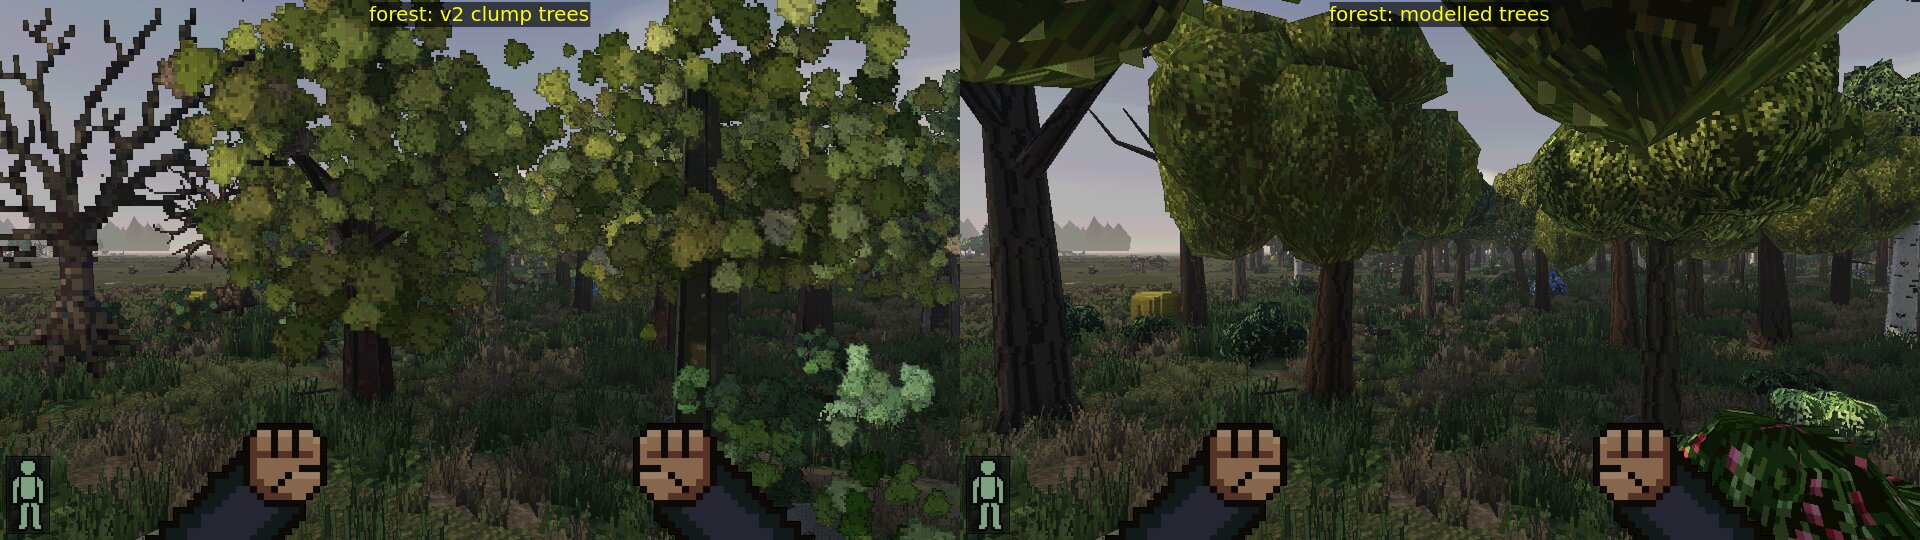
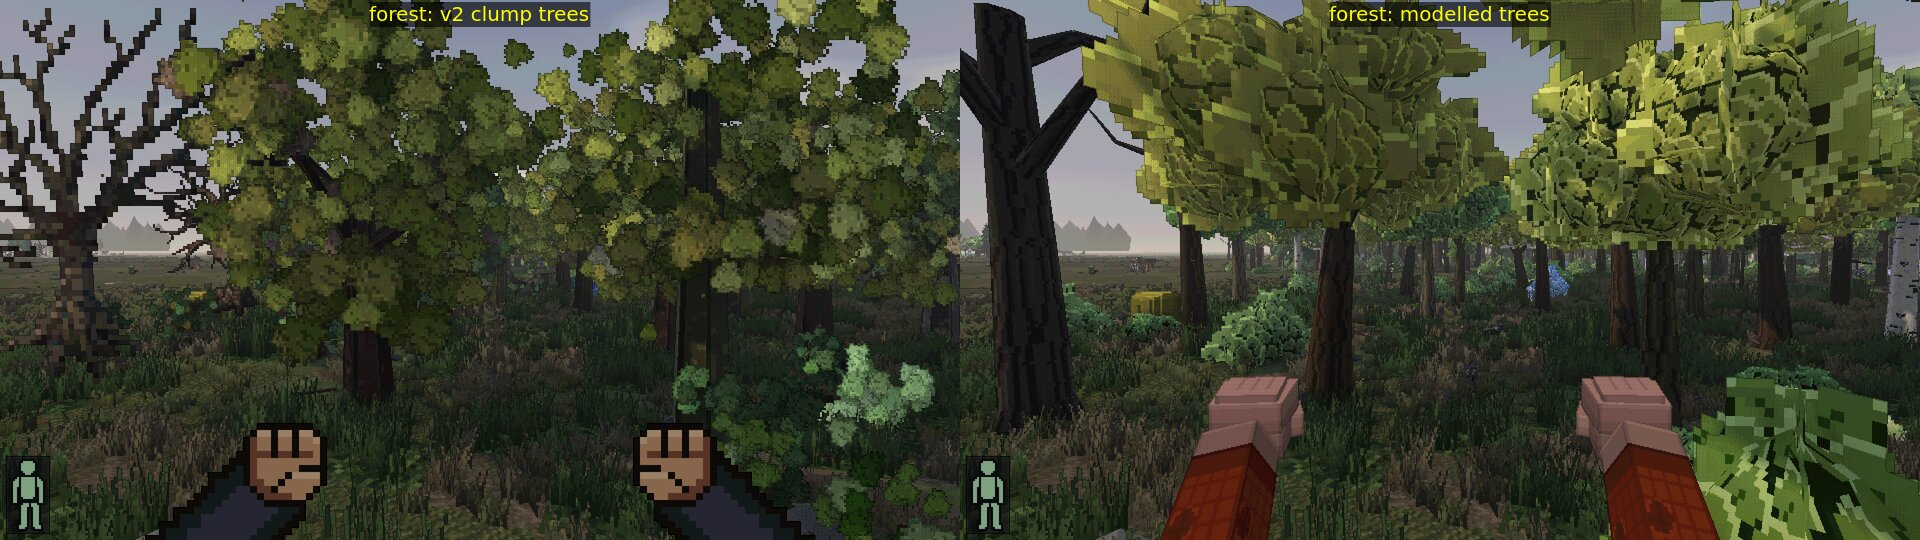
Flora round 4: smooth crown normals + baked occlusion and per-lump tint, bigger outward leaf-edge cards and underside cards, scalloped 4-step leaf texture, sprite-lit colour with leaf glow, big floret clusters on bushes, near-eye fade, stepped wind (foliage material)

diff --git a/src/render/flora.ts b/src/render/flora.ts
@@ -2,11 +2,12 @@ import * as THREE from 'three';
 import { Rng, hashString } from '../core/rng';
 import { LEVEL_HEIGHT } from '../world/coords';
 import type { RGB } from './colors';
-import { FloraAtlas, paintBark, paintFringe, paintLeaves, paintNeedles, paintSnow, paintTwigs, type BarkKind, type Ramp4 } from './floraArt';
+import { FloraAtlas, type LeafDots, paintBark, paintFringe, paintLeaves, paintNeedles, paintSnow, paintTwigs, type BarkKind, type Ramp4 } from './floraArt';
 import { framePixels, frameKey } from './framePixels';
 import { GeomBuilder, type V3 } from './geometry';
 import type { GroundField } from './ground';
-import { worldMaterials } from './materials';
+import { shared, worldMaterials } from './materials';
+import { leafGlow, leafSun } from './trees';
 import { Img } from './pixelArt';
 import type { TileFrame } from './textureSource';
 import type { TreeSpec } from './trees';
@@ -98,7 +99,7 @@ export interface Species {
   /** height multiplier on the mesher's tree height */
   scale: number;
   /** pixel dots in the leaf texture by season (flowers, blossom, fruit, berries) */
-  dots?: (season: string) => { cols: RGB[]; n: number; size: 1 | 2 } | undefined;
+  dots?: (season: string) => LeafDots | undefined;
 }
 
 const FRUIT: Record<string, RGB> = {
@@ -131,7 +132,9 @@ export function speciesOf(id: string | undefined, shrub: boolean): Species {
         if (season === 'winter') return undefined;
         if (kind === 'flower' && season === 'autumn') return undefined;
         if (kind === 'berry' && season === 'spring') return { cols: [[240, 240, 232]], n: 10, size: 1 };
-        return { cols, n: kind === 'flower' ? 22 : 16, size: 2 };
+        // a few big floret clusters / berry pairs on a clean green base (dozens of 2-px dots
+        // read as confetti)
+        return kind === 'flower' ? { cols, n: 5, size: 3 } : { cols, n: 9, size: 2 };
       } : undefined,
     };
   }
@@ -144,9 +147,9 @@ export function speciesOf(id: string | undefined, shrub: boolean): Species {
     return {
       family: 'fruit', bark: 'smooth', scale: 0.8,
       dots: (season) => {
-        if (season === 'spring') return { cols: BLOSSOM_PINK.test(s) ? [[240, 178, 200], [250, 214, 226]] : [[246, 242, 236], [230, 226, 222]], n: 30, size: 2 };
+        if (season === 'spring') return { cols: BLOSSOM_PINK.test(s) ? [[240, 178, 200], [250, 214, 226]] : [[246, 242, 236], [230, 226, 222]], n: 9, size: 3 };
         if (harvested || !fruitKey || season === 'winter') return undefined;
-        return { cols: [FRUIT[fruitKey]], n: season === 'summer' ? 12 : 18, size: 2 };
+        return { cols: [FRUIT[fruitKey]], n: season === 'summer' ? 6 : 9, size: 2 };
       },
     };
   }
@@ -237,8 +240,9 @@ function makeLayout(family: Family, variant: number, bare: boolean): Layout {
       const top = trunk(0.42, 0.05, 0.05);
       crownOf([0, 0.66, 0], [0.4, 0.24, 0.4], 9, [0.34, 0.44], 0.8);
       for (const l of L.lumps.slice(1)) if (l.c[1] < 0.7) {
-        l.c = [l.c[0] * 1.12, l.c[1] - 0.1, l.c[2] * 1.12];
-        l.r = [l.r[0] * 0.8, l.r[1] * 2.1, l.r[2] * 0.8];
+        // (tongues hanging below ~2.5 m put the walker's head inside the crown)
+        l.c = [l.c[0] * 1.12, l.c[1] - 0.05, l.c[2] * 1.12];
+        l.r = [l.r[0] * 0.8, l.r[1] * 1.6, l.r[2] * 0.8];
       }
       if (bare) bareCrown(top, 0.05, 0.1);
       else for (let i = 1; i < L.lumps.length; i += 2) limb(top, L.lumps[i].c, 0.022);
@@ -362,7 +366,7 @@ export function paletteOf(f: TileFrame): Palette | null {
     const ramp: Ramp4 = leaf.length > 8
       // brightened: the sprite's colours are drawn with its own shading baked in, while the
       // model gets real (toon) shading on top; unbrightened, crowns read dark olive
-      ? [darken(at(leaf, 0.15), 0.85), brighten(at(leaf, 0.42), 1.15), brighten(at(leaf, 0.74), 1.22), brighten(at(leaf, 0.96), 1.3)]
+      ? [darken(at(leaf, 0.2), 0.85), brighten(at(leaf, 0.45), 1.12), brighten(at(leaf, 0.75), 1.2), brighten(at(leaf, 0.96), 1.3)]
       : [[26, 40, 20], [52, 78, 34], [78, 108, 46], [118, 146, 64]];
     const barkC: RGB = bark.length ? at(bark, 0.5) : [70, 52, 38];
     const q = (c: RGB) => c.map((v) => Math.round(v / 20)).join('.');
@@ -395,7 +399,8 @@ function quadOut(g: GeomBuilder, a: V3, b: V3, c: V3, d: V3, ns: V3[], uv: numbe
   const fn: V3 = [f1[1] * f2[2] - f1[2] * f2[1], f1[2] * f2[0] - f1[0] * f2[2], f1[0] * f2[1] - f1[1] * f2[0]];
   const avg = [ns[0][0] + ns[1][0] + ns[2][0] + ns[3][0], ns[0][1] + ns[1][1] + ns[2][1] + ns[3][1], ns[0][2] + ns[1][2] + ns[2][2] + ns[3][2]];
   if (fn[0] * avg[0] + fn[1] * avg[1] + fn[2] * avg[2] >= 0) g.quadEx(a, b, c, d, ns, uv, f, col);
-  else g.quadEx(b, a, d, c, [ns[1], ns[0], ns[3], ns[2]], [uv[2], uv[1], uv[0], uv[3]], f, col);
+  else g.quadEx(b, a, d, c, [ns[1], ns[0], ns[3], ns[2]], [uv[2], uv[1], uv[0], uv[3]], f,
+    col.length === 12 ? [...col.slice(3, 6), ...col.slice(0, 3), ...col.slice(9, 12), ...col.slice(6, 9)] : col);
 }
 
 /** A tapered tube through `pts` (world metres) with radial normals; bark tiles at 1 m. */
@@ -428,23 +433,38 @@ function tube(g: GeomBuilder, f: TileFrame, pts: V3[], radii: number[], sides: n
  *  normal, so the crown shades as one mass (lit top, dark underside) with lumps in it. */
 function lump(g: GeomBuilder, f: TileFrame, c: V3, r: V3, crown: V3, seg: number, rings: number, seed: number): void {
   const rng = new Rng(seed);
+  // each lump a slightly different value and hue (a younger/older leaf mass), like the v2
+  // clumps coloured from different sprite pixels: one flat tint read as a plastic ball
+  const tv = 0.86 + rng.next() * 0.24, th = (rng.next() - 0.5) * 0.12;
+  const tint: V3 = [tv * (1 + th), tv, tv * (1 - th)];
   const wob: number[] = [];
-  for (let i = 0; i < seg * (rings + 1); i++) wob.push(1 + (rng.next() - 0.5) * 0.34);
+  for (let i = 0; i < seg * (rings + 1); i++) wob.push(1 + (rng.next() - 0.5) * 0.26);
   const circ = Math.max(1, Math.round(2 * Math.PI * r[0]));
-  const P = (i: number, k: number): [V3, V3, number, number] => {
+  // which way this lump faces out of the crown: its inner and lower sides are occluded
+  const out = norm([c[0] - crown[0] + 1e-4, (c[1] - crown[1]) * 0.6, c[2] - crown[2]]);
+  const P = (i: number, k: number): [V3, V3, number, number, number] => {
     const th = (i / seg) * Math.PI * 2, ph = -Math.PI / 2 + (k / rings) * Math.PI;
     const w = k === 0 || k === rings ? 1 : wob[(i % seg) * (rings + 1) + k];
     const d: V3 = [Math.cos(th) * Math.cos(ph), Math.sin(ph), Math.sin(th) * Math.cos(ph)];
     const p: V3 = [c[0] + d[0] * r[0] * w, c[1] + d[1] * r[1] * w, c[2] + d[2] * r[2] * w];
     const vn = norm([p[0] - crown[0], (p[1] - crown[1]) * 1.2, p[2] - crown[2]]);
-    const n = norm([d[0] * 0.6 + vn[0] * 0.4, d[1] * 0.6 + vn[1] * 0.4, d[2] * 0.6 + vn[2] * 0.4]);
-    return [p, n, (i / seg) * circ, p[1]];
+    // mostly the crown's sphere normal (smooth, one mass, no facets), a little of the lump's
+    // own so lumps still read
+    const n = norm([d[0] * 0.28 + vn[0] * 0.72, d[1] * 0.28 + vn[1] * 0.72, d[2] * 0.28 + vn[2] * 0.72]);
+    // baked occlusion as vertex colour: faces toward the crown's inside and underneath are
+    // darker, so neighbouring lumps separate by value (the v2 clumps' dark gaps) while the
+    // lighting stays smooth
+    const facing = 0.5 + 0.5 * (d[0] * out[0] + d[1] * out[1] + d[2] * out[2]);
+    const up = 0.5 + 0.5 * d[1];
+    const occ = 0.5 + 0.5 * Math.min(1, facing * 0.65 + up * 0.55);
+    return [p, n, (i / seg) * circ, p[1], occ];
   };
   for (let k = 0; k < rings; k++)
     for (let i = 0; i < seg; i++) {
       const a = P(i, k), b = P(i + 1, k), cc = P(i + 1, k + 1), d = P(i, k + 1);
       // winding: outward-facing (i grows counter-clockwise seen from above)
-      quadOut(g, a[0], b[0], cc[0], d[0], [a[1], b[1], cc[1], d[1]], [a[2], a[3], b[2], d[3]], f, WHITE);
+      quadOut(g, a[0], b[0], cc[0], d[0], [a[1], b[1], cc[1], d[1]], [a[2], a[3], b[2], d[3]], f,
+        [a, b, cc, d].flatMap((q) => [q[4] * tint[0], q[4] * tint[1], q[4] * tint[2]]));
     }
 }
 
@@ -568,7 +588,8 @@ function paintImpostor(L: Layout, axis: 0 | 1, pal: Palette, leafTex: Img, barkT
 /** Build one chunk's modelled trees/bushes (one mesh on the flora page), a tree per step. */
 export function* buildFloraSteps(specs: TreeSpec[], ground: GroundField | null): Generator<void, THREE.Object3D[]> {
   const A = floraAtlas();
-  const g = new GeomBuilder();
+  const g = new GeomBuilder(); // trunks, limbs, impostors: plain world material
+  const fg = new GeomBuilder(); // leaves, needles, cards, snow: foliage material (sway, near fade)
   let first = true;
   for (const s of specs) {
     if (!first) yield;
@@ -622,34 +643,100 @@ export function* buildFloraSteps(specs: TreeSpec[], ground: GroundField | null):
     const snow = season === 'winter' && conifer ? A.frame('snow', true, () => paintSnow(5)) : undefined;
     for (let i = 0; i < L.cones.length; i++) {
       const c = L.cones[i];
-      cone(g, leafF, X([0, 0, 0]), gy + c.y0 * H, gy + c.y1 * H, c.r * H, near ? 12 : 8, s.seed + i, snow);
+      cone(fg, leafF, X([0, 0, 0]), gy + c.y0 * H, gy + c.y1 * H, c.r * H, near ? 12 : 8, s.seed + i, snow);
     }
     const fringeF = near && L.lumps.length ? A.frame(`fringe|${pal.key}|${dk}`, false, () => paintFringe(pal.leaf, 7, dots)) : null;
     for (let i = 0; i < L.lumps.length; i++) {
       const l = L.lumps[i];
       const c = X(l.c);
       const r: V3 = [l.r[0] * H, l.r[1] * H, l.r[2] * H];
-      lump(g, leafF, c, r, crownW, near ? 9 : 6, near ? 5 : 3, s.seed + i * 17);
-      // ragged leaf-mass cards through the lump: only their rim shows outside it
-      if (fringeF) cards(g, fringeF, c, r[0] * 1.32, r[1] * 1.32, crownW, yaw + i, 3);
+      lump(fg, leafF, c, r, crownW, near ? 9 : 6, near ? 5 : 3, s.seed + i * 17);
+      if (fringeF) {
+        // ragged leaf-mass cards through the lump: only their rim shows outside it, and it
+        // hides the lump's polygon outline; lumps on the crown's lower half also get a flat
+        // card under them, where the underside silhouette is seen from below
+        // pushed a little outward from the crown centre so the ragged rim covers the outline
+        const o = norm([c[0] - crownW[0], (c[1] - crownW[1]) * 0.5, c[2] - crownW[2]]);
+        cards(fg, fringeF, [c[0] + o[0] * r[0] * 0.3, c[1] + o[1] * r[1] * 0.3, c[2] + o[2] * r[2] * 0.3], r[0] * 1.6, r[1] * 1.6, crownW, yaw + i, 3);
+        if (l.c[1] <= L.crown[1] + 0.02) hcard(fg, fringeF, [c[0], c[1] - r[1] * 0.45, c[2]], r[0] * 1.35, crownW, yaw + i);
+      }
     }
     if (L.twigs.length) {
       const twigF = A.frame(`twig|${barkBase.map((v) => Math.round(v / 10)).join('.')}`, false, () => paintTwigs(barkBase, 9));
       for (const t of L.twigs) {
         const c = X(t.c);
-        if (near || lod === 1) cards(g, twigF, [c[0], c[1] + t.r[1] * H * 0.3, c[2]], t.r[0] * H, t.r[1] * H, crownW, yaw, near ? 3 : 2);
+        if (near || lod === 1) cards(fg, twigF, [c[0], c[1] + t.r[1] * H * 0.3, c[2]], t.r[0] * H, t.r[1] * H, crownW, yaw, near ? 3 : 2);
       }
     }
   }
-  if (!g.vertexCount) return [];
+  const out: THREE.Object3D[] = [];
   const { mat, depth } = worldMaterials(A.texture);
-  const m = new THREE.Mesh(g.build(), mat);
-  m.customDepthMaterial = depth;
-  m.castShadow = true;
-  m.receiveShadow = true;
-  m.matrixAutoUpdate = false;
-  m.userData.flora = true;
-  return [m];
+  for (const [b, material] of [[g, mat], [fg, foliageMaterial(A.texture)]] as const) {
+    if (!b.vertexCount) continue;
+    const m = new THREE.Mesh(b.build(), material);
+    m.customDepthMaterial = depth;
+    m.castShadow = true;
+    m.receiveShadow = true;
+    m.matrixAutoUpdate = false;
+    m.userData.flora = true;
+    out.push(m);
+  }
+  return out;
+}
+
+// --- foliage material --------------------------------------------------------------------
+// The world material plus three things only leaves want:
+//  * near fade: within ~2 m of the eye leaves dissolve (screen-door on the pixel grid),
+//    so walking into a crown or bush doesn't fill the screen with giant texels
+//  * stepped wind: a small sway advanced in 4 keyframes per second (pixel-art animation
+//    timing, and a still frame between steps doesn't shimmer), gone past ~25 m
+//  * light through leaves: the v2 clumps' glow (undersides never go muddy) and backlit
+//    translucency when looking toward the sun
+let foliageMat: THREE.MeshLambertMaterial | null = null;
+/** Sway amplitude in metres (0 = off); cdda.floraTweak can change it. */
+export const floraWind = { value: 0.05 };
+
+function foliageMaterial(tex: THREE.Texture): THREE.MeshLambertMaterial {
+  if (foliageMat) return foliageMat;
+  const base = worldMaterials(tex).mat;
+  const m = new THREE.MeshLambertMaterial({ map: tex, vertexColors: true, alphaTest: 0.5, side: THREE.FrontSide });
+  m.onBeforeCompile = (sh, r) => {
+    base.onBeforeCompile(sh, r);
+    Object.assign(sh.uniforms, { uTime: shared.uTime, uSway: floraWind, uLeafGlow: leafGlow, uSunW: leafSun.dir, uSunC: leafSun.color });
+    const anchor = 'vSkyVis = skyVis;';
+    if (!sh.vertexShader.includes(anchor)) throw new Error('flora: world vertex anchor missing');
+    sh.vertexShader = 'uniform float uTime;\nuniform float uSway;\nuniform vec3 uSunW;\nvarying float vFolDist;\nvarying float vFolTrans;\n' + sh.vertexShader.replace(anchor, `${anchor}
+{
+  vec3 fw = (modelMatrix * vec4(transformed, 1.0)).xyz;
+  vFolDist = length(fw - cameraPosition);
+  vFolTrans = pow(max(dot(normalize(fw - cameraPosition), uSunW), 0.0), 3.0);
+  float st = floor(uTime * 4.0) * 0.25;
+  float ph = fw.x * 0.31 + fw.z * 0.23 + fw.y * 0.4;
+  vec2 sw = vec2(sin(st * 1.7 + ph), cos(st * 1.3 + ph * 1.3)) * uSway * (1.0 - smoothstep(12.0, 25.0, vFolDist));
+  transformed.xz += sw;
+}`);
+    sh.fragmentShader = 'uniform float uLeafGlow;\nuniform vec3 uSunC;\nvarying float vFolDist;\nvarying float vFolTrans;\n' + sh.fragmentShader
+      .replace('#include <alphatest_fragment>', `#include <alphatest_fragment>
+if (vFolDist < 2.0) {
+  ivec2 bi = ivec2(mod(gl_FragCoord.xy, 4.0));
+  int bm[16] = int[16](0, 8, 2, 10, 12, 4, 14, 6, 3, 11, 1, 9, 15, 7, 13, 5);
+  if ((float(bm[bi.x + bi.y * 4]) + 0.5) / 16.0 >= smoothstep(0.9, 2.0, vFolDist)) discard;
+}`)
+      .replace('#include <emissivemap_fragment>', '#include <emissivemap_fragment>\ntotalEmissiveRadiance += diffuseColor.rgb * (uLeafGlow * 0.6 + uSunC * vFolTrans * 0.3);');
+  };
+  m.customProgramCacheKey = () => 'cdda-foliage';
+  (m.userData as { mrt?: boolean }).mrt = true;
+  foliageMat = m;
+  return m;
+}
+
+/** A horizontal cutout card (both faces) under a lump: the crown's underside edge. */
+function hcard(g: GeomBuilder, f: TileFrame, c: V3, half: number, crown: V3, yaw: number): void {
+  const ca = Math.cos(yaw) * half, sa = Math.sin(yaw) * half;
+  const corners: V3[] = [[c[0] - ca + sa, c[1], c[2] - sa - ca], [c[0] + ca + sa, c[1], c[2] + sa - ca], [c[0] + ca - sa, c[1], c[2] + sa + ca], [c[0] - ca - sa, c[1], c[2] - sa + ca]];
+  const ns = corners.map((p) => norm([p[0] - crown[0], p[1] - crown[1], p[2] - crown[2]]));
+  g.quadEx(corners[0], corners[1], corners[2], corners[3], ns, [0.001, 0.001, 0.999, 0.999], f, WHITE);
+  g.quadEx(corners[1], corners[0], corners[3], corners[2], [ns[1], ns[0], ns[3], ns[2]], [0.999, 0.001, 0.001, 0.999], f, WHITE);
 }
 
 /** For tests/debug: painted leaf texture of a palette-less default. */

diff --git a/src/render/floraArt.ts b/src/render/floraArt.ts
@@ -23,40 +23,60 @@ export type Ramp4 = [RGB, RGB, RGB, RGB];
 const T = 32;
 const wrap = (v: number) => ((v % T) + T) % T;
 
-export function paintLeaves(r: Ramp4, seed: number, dots?: { cols: RGB[]; n: number; size: 1 | 2 }): Img {
+/** Flower/fruit/berry dots: `size` 1 = single pixels, 2 = 2x2 fruit, 3 = 5-px florets. */
+export interface LeafDots { cols: RGB[]; n: number; size: 1 | 2 | 3 }
+
+/**
+ * Tileable foliage in four clean steps: overlapping scalloped leaf clusters (~7 px, like
+ * scales) painted back to front, each lit on its upper-left edge (r[3]), a light body (r[2]),
+ * a mid inner leaf mark (r[1]) and a dark lower-right rim (r[0]) that also fills the gaps.
+ * Deliberate, readable shapes at 1:1 (v3 was 3-px noise that turned to mush), and a clean
+ * two-tone mottling at distance.
+ */
+export function paintLeaves(r: Ramp4, seed: number, dots?: LeafDots): Img {
   const img = new Img(T, T);
   const rng = new Rng(seed);
   img.fill(r[0]);
   const setW = (x: number, y: number, c: RGB) => img.set(wrap(x), wrap(y), c);
-  // leaf clusters: 3-5 leaves around a centre, each a 3-px blade with a lit tip, so the
-  // pattern reads as leaves at 1:1 and as a mottled mass further out
-  for (let k = 0; k < 64; k++) {
-    const cx = rng.int(0, T - 1), cy = rng.int(0, T - 1);
-    const n = rng.int(3, 5);
-    const light = rng.next() < 0.5;
-    for (let l = 0; l < n; l++) {
-      const a = (l / n) * Math.PI * 2 + rng.next();
-      const dx = Math.round(Math.cos(a) * 1.6), dy = Math.round(Math.sin(a) * 1.6);
-      const x = cx + dx, y = cy + dy;
-      const base = light ? r[2] : r[1];
-      setW(x, y, base);
-      setW(x + Math.sign(dx || 1), y + Math.sign(dy), base);
-      setW(x + 2 * Math.sign(dx || 1), y + 2 * Math.sign(dy), rng.next() < 0.5 ? r[1] : r[0]);
-      // light from above: the upper pixel of a leaf catches it
-      setW(x, y - 1, light && rng.next() < 0.6 ? r[3] : base);
+  const clusters: [number, number, number][] = [];
+  for (let row = 0; row < 5; row++)
+    for (let col = 0; col < 4; col++) {
+      const cx = col * 8 + (row % 2) * 4 + rng.int(-1, 1), cy = row * 6.4 + rng.int(-1, 1);
+      clusters.push([cx, cy, 3.6 + rng.next() * 1.2]);
     }
+  clusters.sort((a, b) => a[1] - b[1]);
+  for (const [cx, cy, rad] of clusters) {
+    // scalloped outline: three overlapping lobes
+    const lobes = [[0, 0, rad], [-rad * 0.5, rad * 0.25, rad * 0.7], [rad * 0.5, rad * 0.25, rad * 0.7]];
+    const inside = (x: number, y: number) => lobes.some(([lx, ly, lr]) => (x - cx - lx) ** 2 + (y - cy - ly) ** 2 <= lr * lr);
+    for (let y = Math.floor(cy - rad - 1); y <= cy + rad + 1; y++)
+      for (let x = Math.floor(cx - rad * 1.3); x <= cx + rad * 1.3; x++) {
+        if (!inside(x, y)) continue;
+        let c = r[2];
+        if (!inside(x + 1, y + 1)) c = r[0];
+        else if (!inside(x - 1, y - 1) || !inside(x, y - 1)) c = r[3];
+        setW(x, y, c);
+      }
+    // one mid-tone leaf mark per cluster (a vein / the next leaf behind)
+    setW(cx, cy + 1, r[1]); setW(cx + 1, cy + 2, r[1]);
   }
   if (dots) {
     for (let k = 0; k < dots.n; k++) {
       const x = rng.int(0, T - 1), y = rng.int(0, T - 1);
       const c = dots.cols[k % dots.cols.length];
       const hi: RGB = [Math.min(255, c[0] + 60), Math.min(255, c[1] + 60), Math.min(255, c[2] + 60)];
-      if (dots.size === 1) {
-        setW(x, y, c);
+      const lo: RGB = [c[0] * 0.6, c[1] * 0.6, c[2] * 0.6];
+      if (dots.size === 1) setW(x, y, c);
+      else if (dots.size === 2) {
+        // a fruit: 2x2 with one highlight pixel and a darker underside
+        setW(x, y, hi); setW(x + 1, y, c); setW(x, y + 1, c); setW(x + 1, y + 1, lo);
       } else {
-        // a flower / fruit: 2x2 with one highlight pixel and a darker underside
-        setW(x, y, hi); setW(x + 1, y, c); setW(x, y + 1, c);
-        setW(x + 1, y + 1, [c[0] * 0.6, c[1] * 0.6, c[2] * 0.6]);
+        // a floret cluster (hydrangea head, rose): a 5-px rounded blob, lit top-left
+        for (let dy = -2; dy <= 2; dy++)
+          for (let dx = -2; dx <= 2; dx++) {
+            if (Math.abs(dx) + Math.abs(dy) > 3) continue;
+            setW(x + dx, y + dy, dx + dy <= -2 ? hi : dx + dy >= 2 ? lo : c);
+          }
       }
     }
   }
@@ -82,7 +102,7 @@ export function paintNeedles(r: Ramp4, seed: number): Img {
 }
 
 /** Ragged leaf-mass cutout (transparent outside); interior uses the leaf pattern. */
-export function paintFringe(r: Ramp4, seed: number, dots?: { cols: RGB[]; n: number; size: 1 | 2 }): Img {
+export function paintFringe(r: Ramp4, seed: number, dots?: LeafDots): Img {
   const leaves = paintLeaves(r, seed, dots);
   const img = new Img(T, T);
   const rng = new Rng(seed ^ 0x51f);

diff --git a/docs/FLORA.md b/docs/FLORA.md
@@ -32,7 +32,40 @@ world material (toon bands, light map, sun shadows, fill light):
 * Lumps' normals lean toward the crown's volume normal, so a crown shades as one mass (lit top,
   dark underside, stepped by the toon bands) with lumps in it.
 * 3 layout variants per family, random yaw; heights: conifers x1.35, birch x1.12, fruit x0.8.
-* No wind sway (the geometry is static world mesh); sway of <1 px at distance only flickered.
+* Wind: stepped foliage sway since round 4 (below); trunks stay still.
+
+## Round 4: close-up polish
+
+Feedback on round 3: crowns read as faceted PS1 balls with noisy texture, darker and more olive
+than the sprite greens; bushes were confetti; walking into a crown filled the screen.
+
+* **Smooth crowns**: lump normals are now 72 % the crown's sphere normal, 28 % the lump's, so
+  the crown shades as one mass through the toon bands with no facets; lumps separate by a baked
+  occlusion (vertex colour: faces toward the crown's inside and underside darker) and a
+  per-lump value/hue tint, like the v2 clumps' pixel-to-pixel variation.
+* **Ragged silhouette**: three larger leaf-mass cutout cards per lump, pushed outward from the
+  crown centre, plus a flat card under every lower lump for the underside edge.
+* **Leaf texture repainted**: overlapping scalloped leaf clusters (~7 px) in four clean steps
+  (lit upper-left edge, light body, mid mark, dark lower-right rim/gaps) instead of 3-px noise.
+* **Colour/value**: the ramp keeps the sprite's lit tone (x1.12-1.3) and the foliage material
+  adds the v2 light-through-leaves glow and backlit translucency; the toon bands do the
+  darkening.
+* **Bushes**: 5 big floret clusters (5-px rounded blobs, lit top-left) or 9 berry pairs on the
+  clean leaf base; fruit trees 6-9 fruit, blossom 9 clusters.
+* **Near fade**: leaves dissolve (screen-door on the pixel grid) between 2.0 and 0.9 m from the
+  eye; willow tongues no longer hang below ~2.5 m.
+* **Stepped wind**: foliage sways 5 cm in 4 keyframes a second (pixel-art timing; a still frame
+  between steps doesn't shimmer), fading out by 25 m. `floraWind.value` in flora.ts (0 = off).
+* Foliage has its own material (world material + those patches); trunks keep the world material.
+  Two draw calls per chunk instead of one.
+
+Standing render (full, 1080p): forest 1.5 ms / 676k tris, street 1.5 ms / 480k, far 1.6 ms /
+608k (round 3: 1.4 / 1.5 / 1.6).
+
+Walking flicker (`cdda.flickerTest`, full look): forest 0.021 (v2 clumps 0.028, round 3 0.027),
+street 0.018, far 0.017.
+
+![](screenshots/wave3/flora/round3_vs_4.jpg)
 
 ## LOD without pops
 
@@ -91,11 +124,9 @@ instead of hundreds of instanced clump cards per tree). Atlas: ~17 % of the 2048
 
 ## Known gaps
 
-* Lumps are smooth-shaded low-poly: within ~2 m their facets and the 32 texel/m leaves are big,
-  and walking into a crown fills the view (v2 clumps dissolved near the eye).
+* Within ~2 m the 32 texel/m leaves are big (they dissolve from 2 m inward).
 * The middle ring -> impostor switch at ~80 m changes the crown outline a little (flat cards
   vs lumps); colours and proportions match.
 * t_fern renders as a low bush (no fronds); saplings in winter keep pale lumps.
-* No wind sway.
 * The flora page re-uploads (2048^2) when a new palette is first painted; this settles after
   the first few chunks of a new biome/season.
